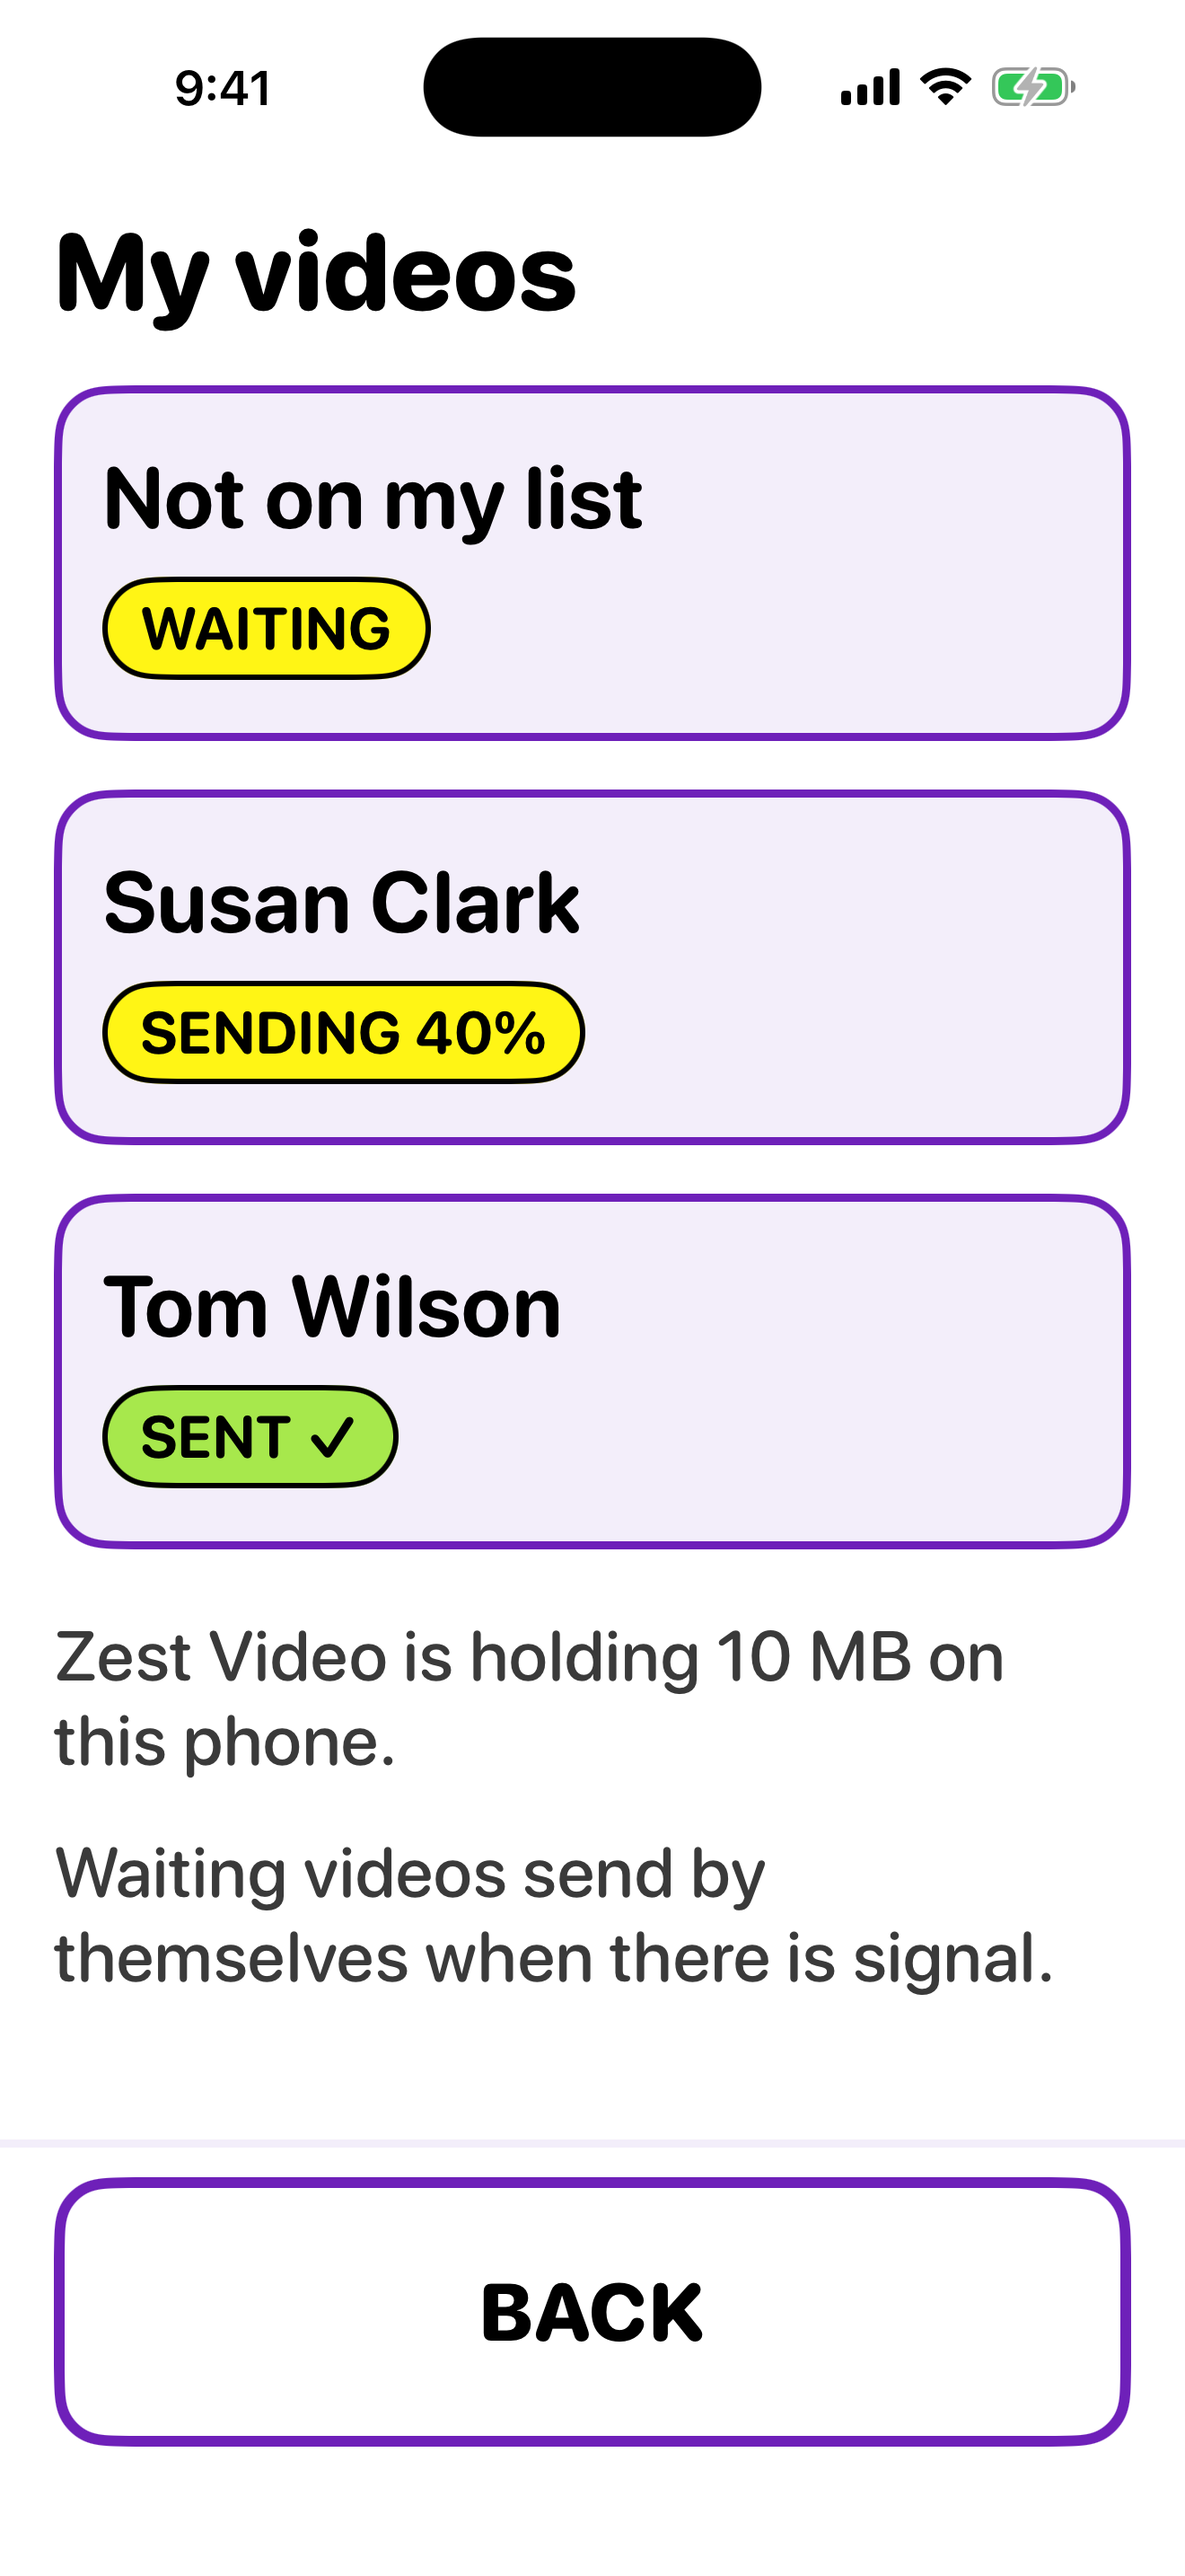
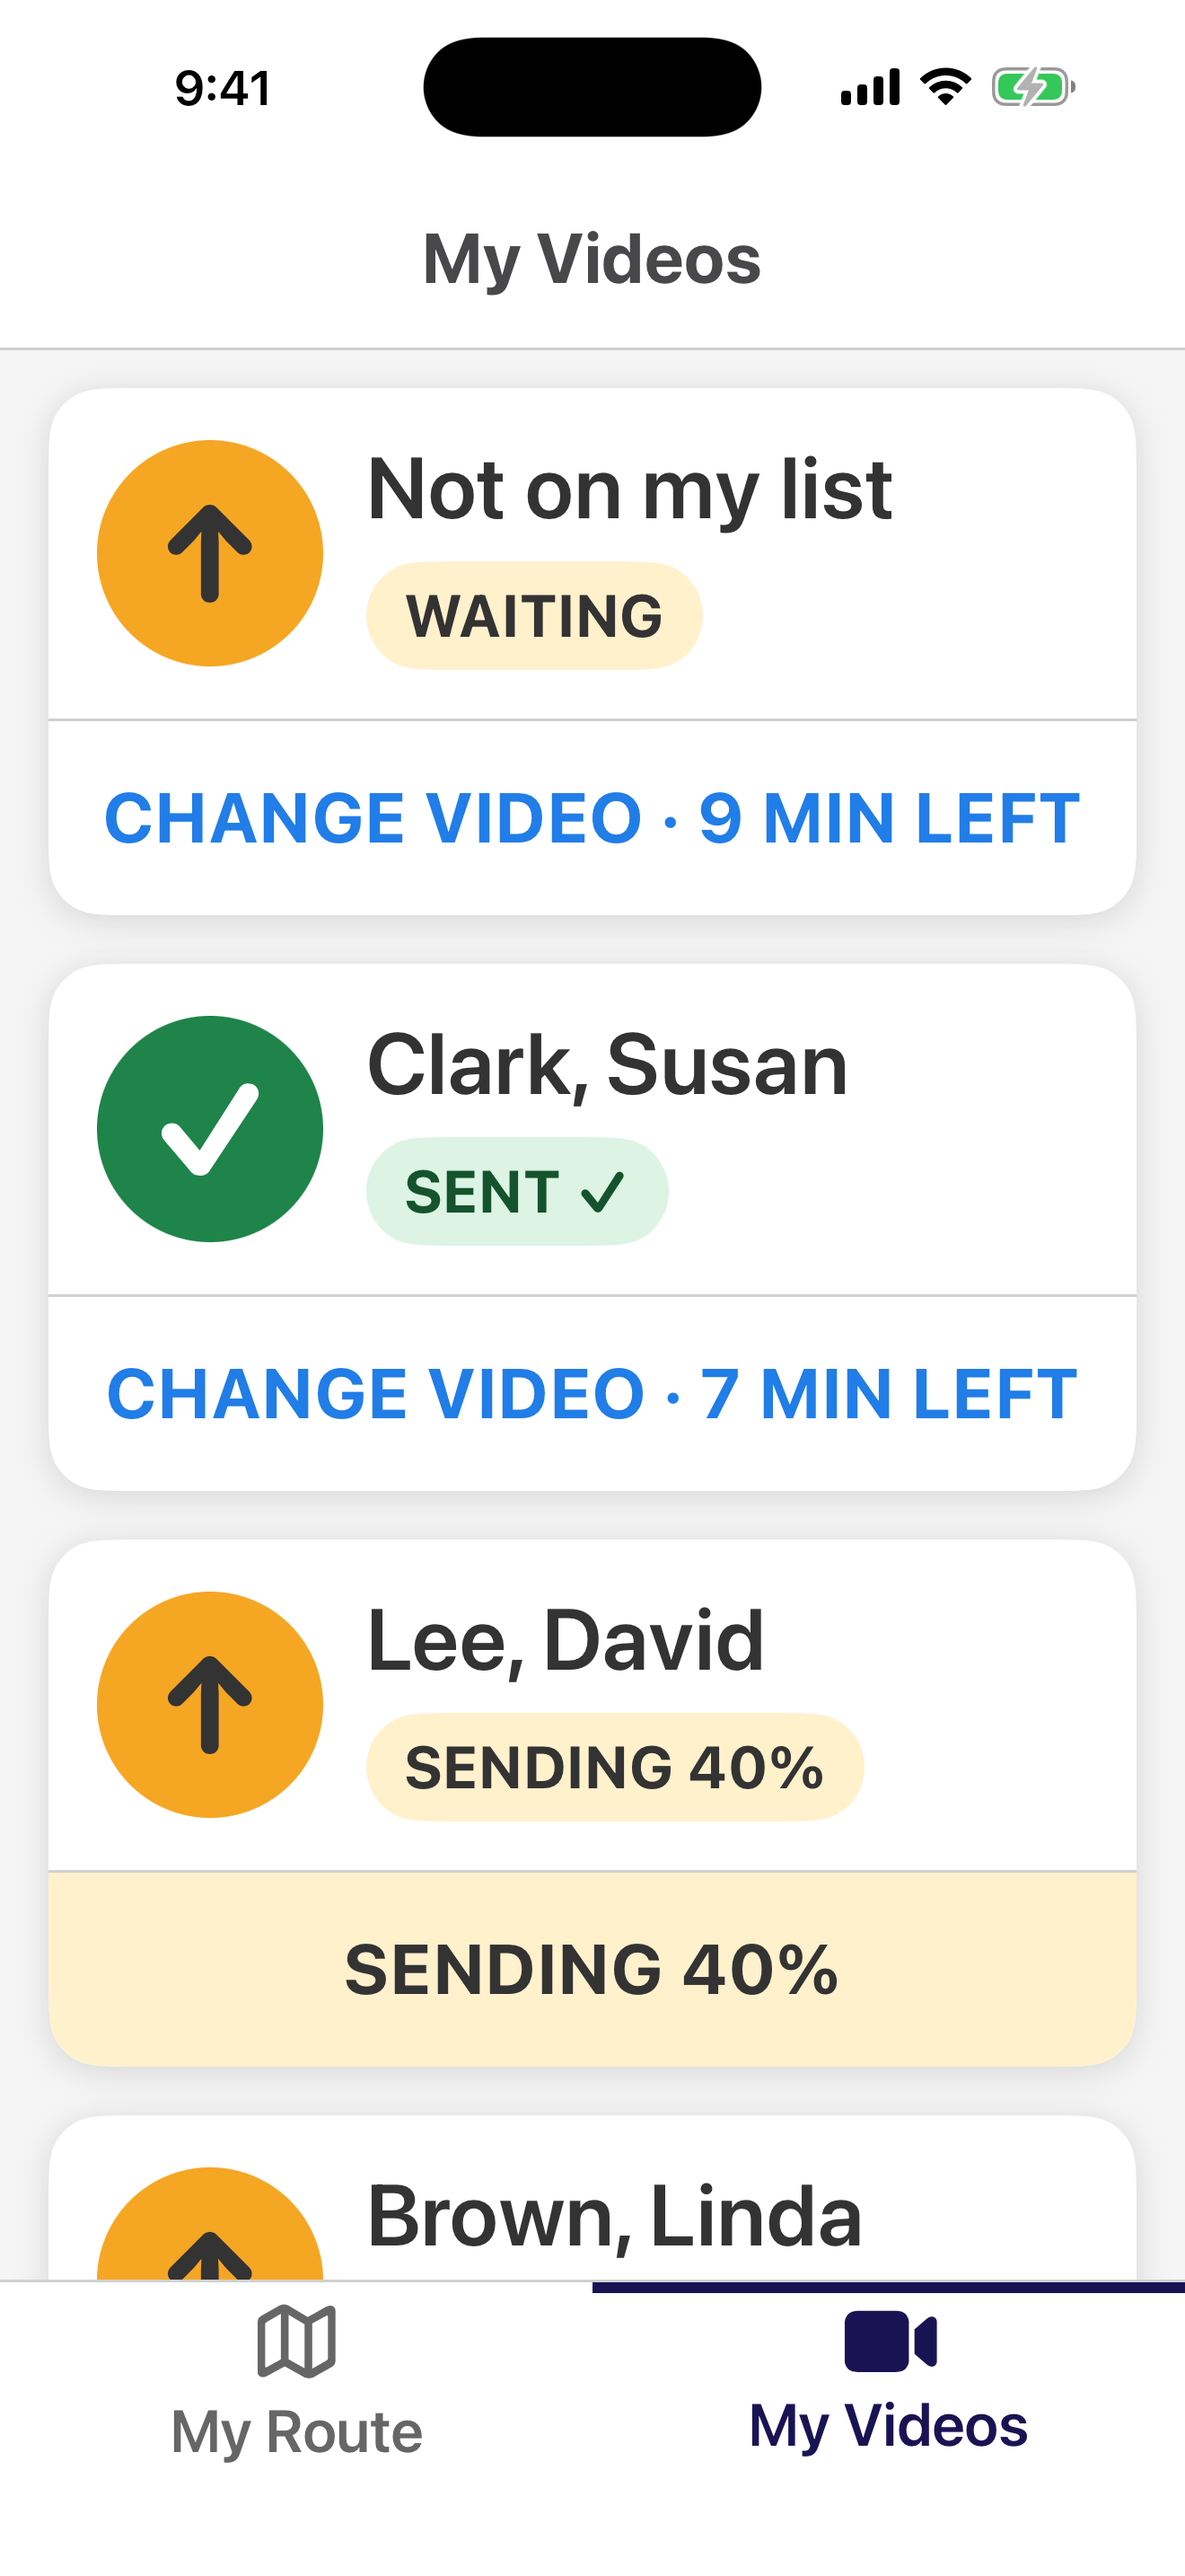
Docs: final app pictures in the FieldRoutes look, and guides matched to the new button names
Claude-Session: https://claude.ai/code/session_01NyQC5d2wEBmvu8NzMAEEMy

diff --git a/src/zest_video/templates/info.html b/src/zest_video/templates/info.html
@@ -81,7 +81,7 @@
 <p><strong>No code arrived?</strong> Check you typed the mobile number the office has for you, then ask for a new code. If it still does not come, call the office: your number may need to be added or fixed.</p>
 <p><strong>A video says Waiting?</strong> It sends by itself when you have signal. Keep the app installed and open it once you are back in range.</p>
 <p><strong>Recorded the wrong house?</strong> For 10 minutes you can delete it or record again in the app. After that, call the office.</p>
-<p><strong>Want to stop using the app?</strong> Open My videos and tap Sign out. To have your details deleted, call the office.</p>
+<p><strong>Want to stop using the app?</strong> Open the My Videos tab and tap Sign out. To have your details deleted, call the office.</p>
 <h2>Customers</h2>
 <p>If your video will not play, check your connection and tap play again. If the video shows a property that is not yours, tap “This is not my home” under the video.</p>
 <h2>Contact</h2>

diff --git a/CLAUDE.md b/CLAUDE.md
@@ -153,7 +153,7 @@ Built from the Visit Video build brief (Nov 12, 2026). A tech records one 15-sec
 - **Monotonic time starts at boot.** "Never happened" must be `None` or `-inf`, not `0`. `last_tech_sync = 0.0` meant nobody could log in for the first five minutes on a fresh machine; only CI's fresh runners showed it.
 - **Stops**: one row per customer per day, every appointment folded in (one video per property per visit). Tech = the appointment's `assignedTech`, falling back to the route's tech; checked against a real day where it matched `servicedBy` on all 44 completed appointments. Check-in is a hint, not proof (several real stops had check-in and check-out seconds apart), so the server's time check only ever raises a flag.
 - **Tests** run on SQLite by default and on Postgres when `VIDEO_TEST_DATABASE_URL` is set (CI does both). `tests/video_helpers.py` seeds a day shaped like the live data: string-valued fields, a customer with three appointments in one visit, a business with no person, a customer with no email, a tech who exists only on the route.
-- **iOS**: no third-party dependencies, no bundled fonts, Swift 5 language mode, generated project (XcodeGen, `ios/project.yml`). Anything testable lives in `ios/ZestCore` (Foundation only, tested on Linux); the app target is compiled only on the macOS CI runner, so push and read the `iOS` workflow to check a change. UI rule from the owner: build it for a 75-year-old in gloves in bright sun (body text 22 pt and up, full-width buttons 76 pt and up, one question per screen, no icons without words, red only for recording).
+- **iOS**: no third-party dependencies, no bundled fonts, Swift 5 language mode, generated project (XcodeGen, `ios/project.yml`). Anything testable lives in `ios/ZestCore` (Foundation only, tested on Linux); the app target is compiled only on the macOS CI runner, so push and read the `iOS` workflow to check a change. UI rules from the owner: build it for a 75-year-old in gloves in bright sun (body text 24 pt and up, full-width buttons 76 pt and up, one question per screen, no icons without words, red only for recording), and make it look and feel like the FieldRoutes mobile app the techs already use (blue #217DE7, white cards on #F5F5F5, navy #1A1353 tab indicator, names as "Smith, Jane", small grey uppercase labels, blue uppercase actions) without using FieldRoutes' name, logo or icons. Every size and colour lives in `ios/ZestVideo/UI/Theme.swift`. The customer watch page, emails and office page stay Zest-branded. The `Screenshots` CI job photographs all 15 screens from the real app (`-ZestScreen <name>`, simulator builds only); look at those pictures after any UI change, since that is how every layout flaw so far was found. Current set: `docs/video/screens/`.
 - **Not yet proven on real hardware or real accounts**: recording and background upload on a physical iPhone, the TestFlight job, Resend, the bounce webhook payload, Quo texts, APNs, and `review/create` against the live account. `docs/video/README.md` keeps the list.
 
 ## Owner context

diff --git a/docs/video/APP-REVIEW.md b/docs/video/APP-REVIEW.md
@@ -21,7 +21,7 @@ Apple renumbers now and then.
 | 10 | Declaring background abilities it does not use | 2.5.4 | None declared. Uploads use the system's background transfer service, which needs no declaration. |
 | 11 | An account you can create but cannot delete | 5.1.1(v) | Nobody creates an account in the app: sign-in is issued by the employer from FieldRoutes. The tech can sign out (removes that phone), and the privacy policy says how to have details deleted. Say so in the review notes. |
 | 12 | An app meant for one company, on the public store | 3.2 | Ask for **unlisted distribution**: the app passes normal review but only people with the link can find it. See below. |
-| 13 | Screenshots that do not show the real app | 2.3 | CI photographs the real app on a 6.9-inch iPhone simulator at App Store size (1320 × 2868). The current set is in [`screens/`](screens/00-contact-sheet.png); upload a few of those (Today, Record, Recording, Save this video?, My videos). The picture behind the record screens is a drawn stand-in, because a simulator has no camera. |
+| 13 | Screenshots that do not show the real app | 2.3 | CI photographs the real app on a 6.9-inch iPhone simulator at App Store size (1320 × 2868). The current set is in [`screens/`](screens/00-contact-sheet.png); upload a few of those (My Route, Record, Recording, Save this video?, My Videos). The picture behind the record screens is a drawn stand-in, because a simulator has no camera. |
 | 14 | Too thin to be an app ("could be a web page") | 4.2 | It needs the camera, background upload, on-device speech and location. A web page cannot do those, which is why the brief chose a native app. |
 | 15 | A third-party login with no "Sign in with Apple" | 4.8 | Does not apply: there is no social or third-party login. |
 | 16 | Digital goods sold outside in-app purchase | 3.1.1 | Does not apply: nothing is sold in the app. |
@@ -89,7 +89,7 @@ These are the same six the app's own privacy manifest declares
 > the red button and record up to 15 seconds, then tap SAVE. Because the demo
 > stops have no real address, the app may show one warning asking you to
 > confirm the stop; tap SAVE ANYWAY. The video uploads by itself and appears
-> under MY VIDEOS. Demo videos are never sent to a customer.
+> under the My Videos tab. Demo videos are never sent to a customer.
 >
 > Recording is always started by the user and is clearly shown: a red border,
 > a RECORDING label and a countdown stay on screen until it stops.
@@ -99,7 +99,7 @@ These are the same six the app's own privacy manifest declares
 > device to check that the customer's name or street was said.
 >
 > Account deletion: users do not create accounts. A user can sign out under
-> MY VIDEOS, which removes the device. Deletion requests are handled by the
+> the My Videos tab, which removes the device. Deletion requests are handled by the
 > employer as described in the privacy policy.
 >
 > We are requesting unlisted distribution because the app is only useful to

diff --git a/docs/video/TECH-GUIDE.md b/docs/video/TECH-GUIDE.md
@@ -1,6 +1,7 @@
 # Zest Video: one page for techs
 
-One short video at every stop. It takes about 30 seconds.
+One short video at every stop. It takes about 30 seconds. It looks and works
+like the route app you already use: your stops, closest one first.
 
 ## First time only
 
@@ -12,7 +13,7 @@ You stay signed in after that.
 
 ## At every stop
 
-1. Open the app. Tap the stop. It is at the top of the list.
+1. Open the app. Your closest stop is at the top. Tap **RECORD VIDEO**.
 2. Check the name and address. Tap **THIS IS IT**.
 3. Tap the big red button. Or press a volume button.
 4. Talk for 15 seconds. The screen tells you what to say:
@@ -29,10 +30,10 @@ That is it. The video sends by itself. You can close the app and drive.
 - **Red border and a ring = it is recording.** The ring empties as your time runs out.
 - **No signal? No problem.** The video waits on your phone and sends later.
   Open the app once you have signal again.
-- **Made a mistake?** For 10 minutes you can tap the stop and pick
-  **RECORD AGAIN** or **DELETE VIDEO**. After 10 minutes, call the office.
-- **Stop not on your list?** Tap **NOT ON MY LIST** at the bottom and
-  record. The office will match it.
+- **Made a mistake?** For 10 minutes you can tap the stop (**CHANGE VIDEO**)
+  and pick **RECORD AGAIN** or **DELETE VIDEO**. After 10 minutes, call the office.
+- **Stop not on your list?** Scroll to the bottom of the list, tap
+  **STOP NOT ON MY LIST** and record. The office will match it.
 - **Film the property, not people.** Keep customers, kids and neighbors out of
   the picture.
 - **Your phone's space is safe.** Each video is small and is deleted from your
